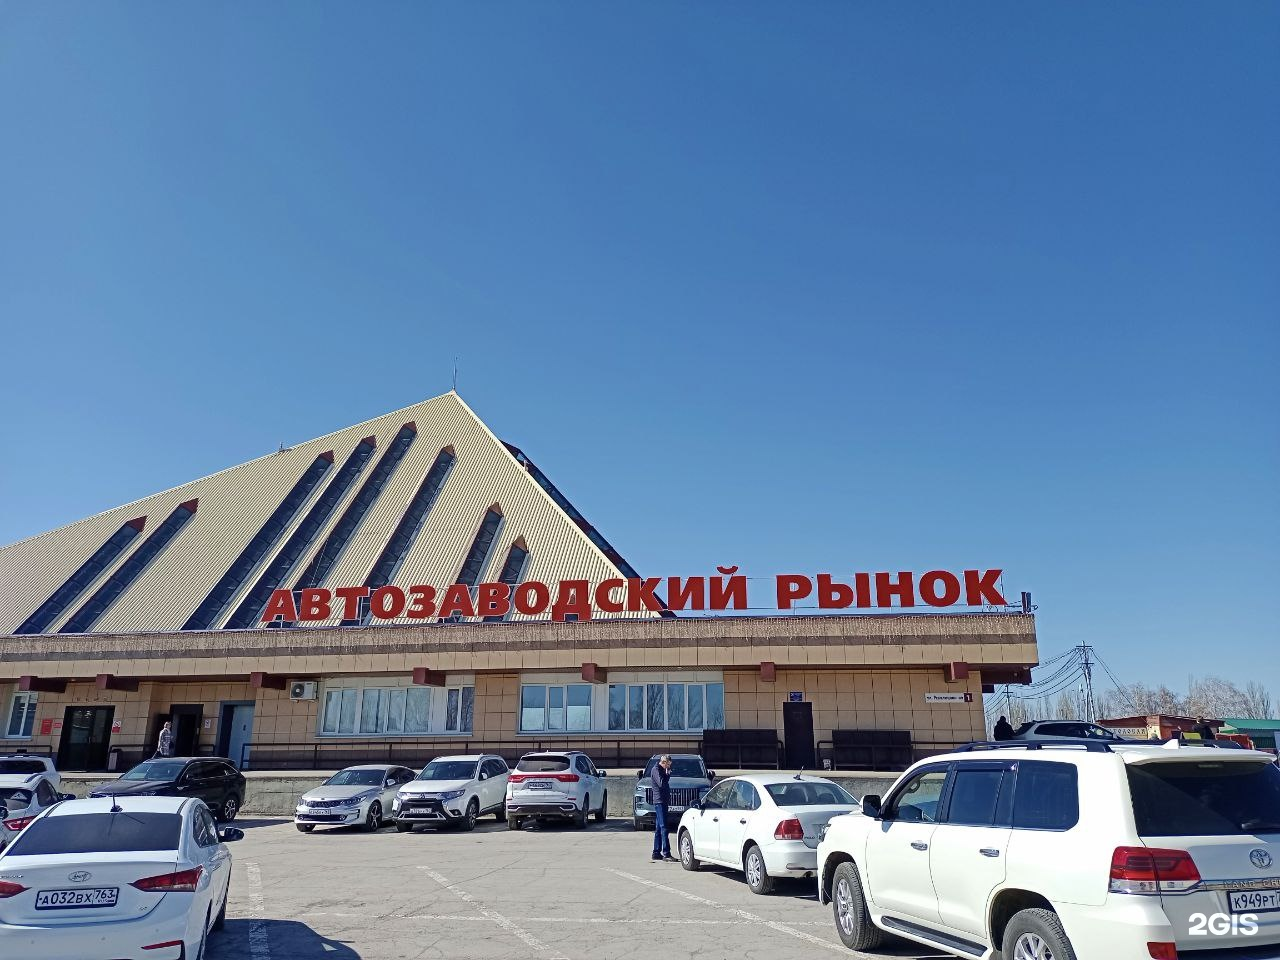
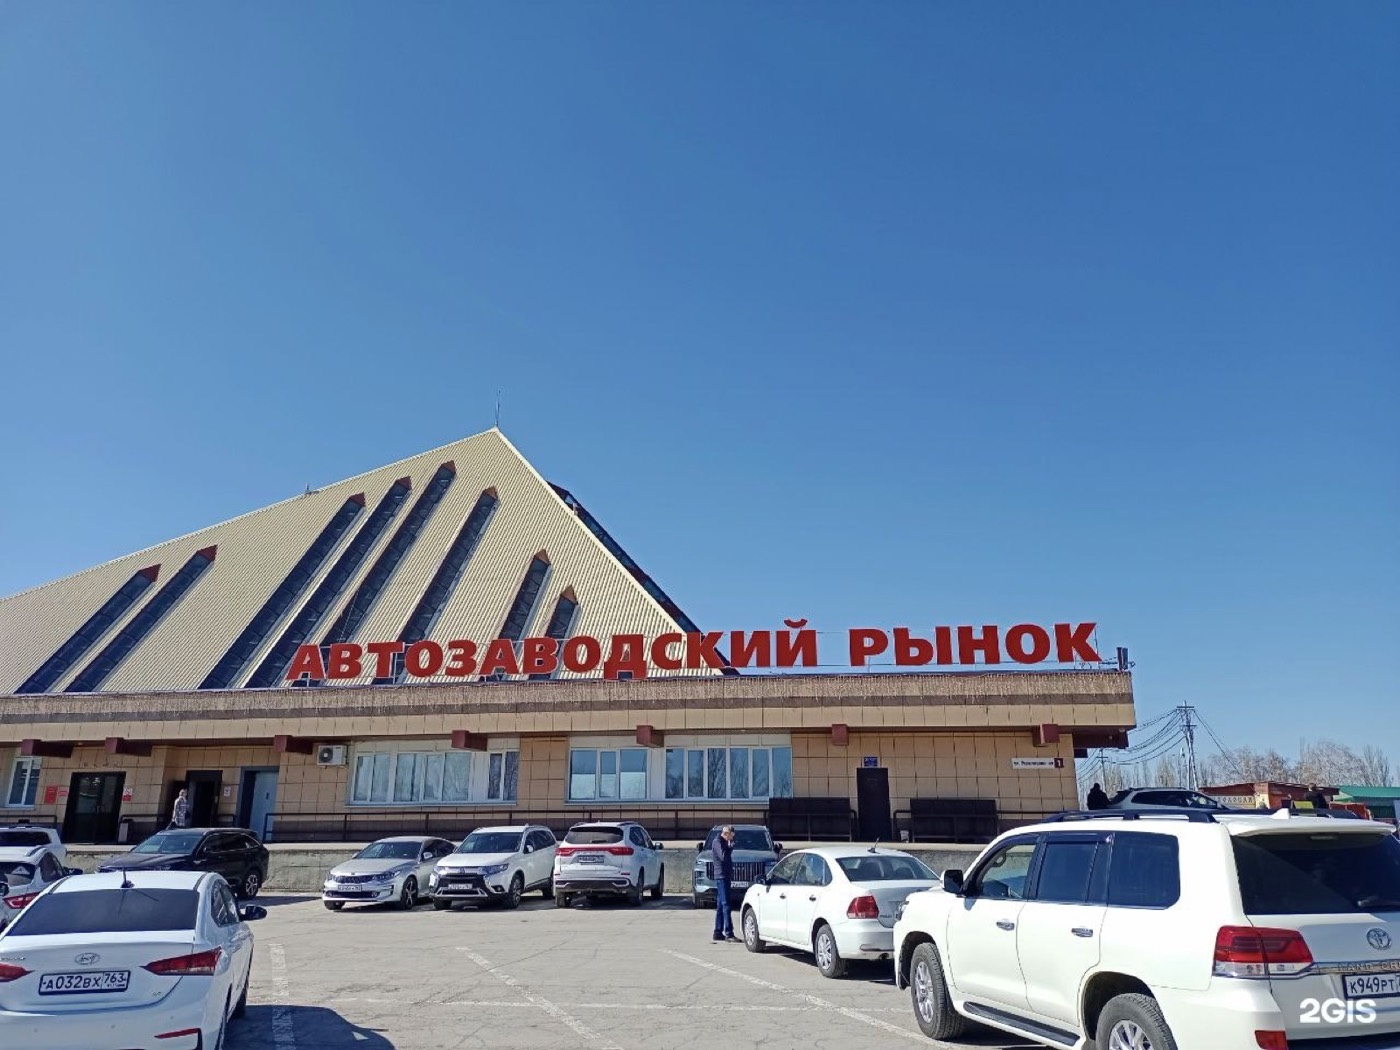
Unify radii, soft dividers, mobile slider/carousel fixes, perf
- All buttons, inputs and button-like tiles use 12px radius; form card 16px;
  contact tiles get a visible hover state
- Hero stat dividers and footer divider use translucent white (footer one
  fades out at the edges) instead of flat grey
- Portfolio mobile arrows scroll exactly one card (width + gap), card peek
  reduced to ~24px
- Hero carousel autoscroll keeps its position in a float ref — Safari rounds
  scrollLeft to integers so the fractional increment never accumulated on iOS
- hoverOnlyWhenSupported: hover styles no longer stick after taps on touch
- Mobile fish glow uses half-size blurs (heavy 88px blur caused jank on iOS)
- All photos recompressed to max 1400px/q72: 7.2MB -> 4.2MB page weight

diff --git a/components/Hero.tsx b/components/Hero.tsx
@@ -88,6 +88,7 @@ export default function Hero({ content }: HeroProps) {
   const [isMenuOpen, setIsMenuOpen] = useState(false);
   const [navOpacity, setNavOpacity] = useState(0);
   const dragState = useRef({ startX: 0, scrollLeft: 0 });
+  const autoScrollPos = useRef(0);
   const carouselImages = useMemo(() => [...hero.images, ...hero.images, ...hero.images], [hero.images]);
 
   useEffect(() => {
@@ -99,11 +100,19 @@ export default function Hero({ content }: HeroProps) {
     let frameId = 0;
     const tick = () => {
       if (!isPaused && !isDragging) {
-        carousel.scrollLeft += 0.55;
-
-        if (carousel.scrollLeft >= carousel.scrollWidth / 3) {
-          carousel.scrollLeft = 0;
+        // Safari rounds scrollLeft to integers, so a fractional increment on
+        // the live value never accumulates — keep the position in a float ref.
+        if (Math.abs(carousel.scrollLeft - autoScrollPos.current) > 2) {
+          autoScrollPos.current = carousel.scrollLeft;
         }
+
+        autoScrollPos.current += 0.55;
+
+        if (autoScrollPos.current >= carousel.scrollWidth / 3) {
+          autoScrollPos.current = 0;
+        }
+
+        carousel.scrollLeft = autoScrollPos.current;
       }
 
       frameId = requestAnimationFrame(tick);
@@ -211,14 +220,14 @@ export default function Hero({ content }: HeroProps) {
               ))}
             </div>
             <a
-              className="rounded bg-brand-accent px-6 py-[10px] text-[14px] font-bold text-white transition hover:bg-red-700"
+              className="rounded-xl bg-brand-accent px-6 py-[10px] text-[14px] font-bold text-white transition hover:bg-red-700"
               href={nav.cta.href}
             >
               {nav.cta.label}
             </a>
           </div>
           <a
-            className="ml-auto mr-3 rounded bg-brand-accent px-5 py-[10px] text-[14px] font-bold text-white transition hover:bg-red-700 lg:hidden"
+            className="ml-auto mr-3 rounded-xl bg-brand-accent px-5 py-[10px] text-[14px] font-bold text-white transition hover:bg-red-700 lg:hidden"
             href={nav.cta.href}
           >
             {nav.cta.label}
@@ -226,7 +235,7 @@ export default function Hero({ content }: HeroProps) {
           <button
             aria-expanded={isMenuOpen}
             aria-label={isMenuOpen ? nav.menuCloseLabel : nav.menuOpenLabel}
-            className="relative z-[9100] flex h-11 w-11 items-center justify-center rounded border border-[#333333] text-[#dddddd] transition hover:border-[#555555] lg:hidden"
+            className="relative z-[9100] flex h-11 w-11 items-center justify-center rounded-xl border border-[#333333] text-[#dddddd] transition hover:border-[#555555] lg:hidden"
             onClick={() => setIsMenuOpen((value) => !value)}
             type="button"
           >
@@ -292,13 +301,13 @@ export default function Hero({ content }: HeroProps) {
 
           <div className="mt-6 flex flex-col gap-4 sm:flex-row sm:gap-5">
             <a
-              className="rounded bg-brand-accent px-9 py-4 text-center text-[16px] font-bold text-white shadow-[0_0_22px_rgba(204,26,44,0.42)] transition hover:bg-red-700"
+              className="rounded-xl bg-brand-accent px-9 py-4 text-center text-[16px] font-bold text-white shadow-[0_0_22px_rgba(204,26,44,0.42)] transition hover:bg-red-700"
               href={hero.primaryCta.href}
             >
               {ctaText}
             </a>
             <a
-              className="rounded border border-[#444444] px-9 py-4 text-center text-[16px] font-semibold text-white transition hover:border-white"
+              className="rounded-xl border border-[#444444] px-9 py-4 text-center text-[16px] font-semibold text-white transition hover:border-white"
               href={hero.secondaryCta.href}
             >
               {hero.secondaryCta.label}
@@ -353,7 +362,7 @@ export default function Hero({ content }: HeroProps) {
 
       <dl className="relative z-10 mx-auto grid max-w-[1200px] grid-cols-2 gap-y-8 px-5 pb-12 pt-3 sm:px-6 lg:grid-cols-4 lg:px-0 lg:pb-16">
         {stats.map((stat) => (
-          <div className="border-[#333333] text-center lg:border-l lg:first:border-l-0" key={stat.label}>
+          <div className="border-white/10 text-center lg:border-l lg:first:border-l-0" key={stat.label}>
             <dt className="font-heading text-[36px] leading-none text-brand-accent sm:text-[48px]">{stat.value}</dt>
             <dd className="mt-3 text-[15px] font-medium text-[#999999]">{stat.label}</dd>
           </div>

diff --git a/components/Contacts.tsx b/components/Contacts.tsx
@@ -67,14 +67,14 @@ export default function Contacts({ contacts }: ContactsProps) {
             <h2 className="font-heading text-[26px]">{contacts.title}</h2>
 
             <div className="mt-5 grid gap-2">
-              <a className="flex items-center gap-4 rounded-lg border border-[#242421] bg-[#181816] py-3.5 pl-5 pr-4" href={contacts.phone.href}>
+              <a className="flex items-center gap-4 rounded-xl border border-[#242421] bg-[#181816] py-3.5 pl-5 pr-4 transition hover:border-[#3c3c38] hover:bg-[#1f1f1d]" href={contacts.phone.href}>
                 <Icon path={iconPaths.phone} />
                 <span>
                   <span className="block text-[11px] font-bold text-[#777777]">{contacts.phone.label}</span>
                   <span className="mt-1 block text-[19px] font-extrabold">{contacts.phone.value}</span>
                 </span>
               </a>
-              <a className="flex items-center gap-4 rounded-lg border border-[#242421] bg-[#181816] py-3.5 pl-5 pr-4" href={contacts.email.href}>
+              <a className="flex items-center gap-4 rounded-xl border border-[#242421] bg-[#181816] py-3.5 pl-5 pr-4 transition hover:border-[#3c3c38] hover:bg-[#1f1f1d]" href={contacts.email.href}>
                 <Icon path={iconPaths.mail} />
                 <span>
                   <span className="block text-[11px] font-bold text-[#777777]">{contacts.email.label}</span>
@@ -105,7 +105,7 @@ export default function Contacts({ contacts }: ContactsProps) {
             <div className="mt-6 flex flex-wrap gap-2.5">
               {contacts.mapButtons.map((button) => (
                 <a
-                  className="inline-flex items-center gap-2.5 rounded-lg border border-[#2e2e2b] bg-[#1d1d1b] px-4 py-2.5 text-[13px] font-bold text-white transition hover:border-[#4a4a46] hover:bg-[#242422]"
+                  className="inline-flex items-center gap-2.5 rounded-xl border border-[#2e2e2b] bg-[#1d1d1b] px-4 py-2.5 text-[13px] font-bold text-white transition hover:border-[#4a4a46] hover:bg-[#242422]"
                   href={button.href}
                   key={button.label}
                   rel="noreferrer"

diff --git a/components/FinalForm.tsx b/components/FinalForm.tsx
@@ -36,19 +36,19 @@ export default function FinalForm({ form }: FinalFormProps) {
           </ul>
         </div>
 
-        <form className="rounded-lg bg-[#f8f8f8] p-6 sm:p-8">
+        <form className="rounded-2xl bg-[#f8f8f8] p-6 sm:p-8">
           <div className="grid gap-5">
             {form.fields.map((field) => (
               <label className="grid gap-1.5 text-[13px] text-[#666666]" key={field.label}>
                 <span>{field.label}</span>
                 {field.type === "textarea" ? (
                   <textarea
-                    className="min-h-[118px] resize-y rounded bg-[#e8e8e8] px-4 py-3 text-[15px] text-brand-ink outline-none transition placeholder:text-[#999999] focus:ring-2 focus:ring-brand-accent/35"
+                    className="min-h-[118px] resize-y rounded-xl bg-[#e8e8e8] px-4 py-3 text-[15px] text-brand-ink outline-none transition placeholder:text-[#999999] focus:ring-2 focus:ring-brand-accent/35"
                     placeholder={field.placeholder}
                   />
                 ) : (
                   <input
-                    className="h-11 rounded bg-[#e8e8e8] px-4 text-[15px] text-brand-ink outline-none transition placeholder:text-[#999999] focus:ring-2 focus:ring-brand-accent/35"
+                    className="h-11 rounded-xl bg-[#e8e8e8] px-4 text-[15px] text-brand-ink outline-none transition placeholder:text-[#999999] focus:ring-2 focus:ring-brand-accent/35"
                     placeholder={field.placeholder}
                     type={field.type}
                   />
@@ -58,7 +58,7 @@ export default function FinalForm({ form }: FinalFormProps) {
           </div>
 
           <button
-            className="mt-6 h-12 w-full rounded bg-brand-accent px-5 text-[15px] font-bold text-white transition hover:bg-red-700"
+            className="mt-6 h-12 w-full rounded-xl bg-brand-accent px-5 text-[15px] font-bold text-white transition hover:bg-red-700"
             type="button"
           >
             {form.submitText}

diff --git a/components/Portfolio.tsx b/components/Portfolio.tsx
@@ -32,12 +32,16 @@ export default function Portfolio({ portfolio }: PortfolioProps) {
 
   const scrollMobile = (direction: "left" | "right") => {
     const scroller = mobileScrollerRef.current;
-    if (!scroller) {
+    const card = scroller?.firstElementChild;
+    if (!scroller || !card) {
       return;
     }
 
+    const gap = parseFloat(getComputedStyle(scroller).columnGap) || 16;
+    const step = card.getBoundingClientRect().width + gap;
+
     scroller.scrollBy({
-      left: scroller.clientWidth * 0.9 * (direction === "left" ? -1 : 1),
+      left: step * (direction === "left" ? -1 : 1),
       behavior: "smooth"
     });
   };
@@ -63,7 +67,7 @@ export default function Portfolio({ portfolio }: PortfolioProps) {
         >
           {slides.map((slide) => (
             <div
-              className="relative h-[62vw] max-h-[360px] min-h-[250px] min-w-[calc(100vw-84px)] snap-start overflow-hidden rounded-[18px] bg-zinc-100 sm:h-[420px] sm:min-w-[calc(100vw-104px)]"
+              className="relative h-[62vw] max-h-[360px] min-h-[250px] min-w-[calc(100vw-64px)] snap-start overflow-hidden rounded-[18px] bg-zinc-100 sm:h-[420px] sm:min-w-[calc(100vw-88px)]"
               key={slide.src}
             >
               <Image
@@ -139,7 +143,7 @@ export default function Portfolio({ portfolio }: PortfolioProps) {
           {slides.map((image, index) => (
             <button
               aria-label={image.alt}
-              className={`relative h-[50px] w-[75px] shrink-0 overflow-hidden rounded border-2 transition ${
+              className={`relative h-[50px] w-[75px] shrink-0 overflow-hidden rounded-md border-2 transition ${
                 index === activeIndex ? "border-brand-accent" : "border-transparent opacity-70 hover:opacity-100"
               }`}
               key={`${image.src}-${index}`}

diff --git a/components/SectionWatermark.tsx b/components/SectionWatermark.tsx
@@ -12,14 +12,14 @@ export default function SectionWatermark({ variant = "grey" }: SectionWatermarkP
     return (
       <div aria-hidden className={boxClasses}>
         <Image
-          className="absolute inset-[-5.5rem] h-[calc(100%+11rem)] w-[calc(100%+11rem)] object-contain opacity-75 blur-[88px] saturate-150"
+          className="absolute inset-[-5.5rem] h-[calc(100%+11rem)] w-[calc(100%+11rem)] object-contain opacity-75 blur-[44px] saturate-150 lg:blur-[88px]"
           src="/logo-mark.svg"
           alt=""
           fill
           priority
           sizes="540px"
         />
-        <div className="absolute inset-[-8rem] bg-[radial-gradient(circle_at_center,rgba(204,26,44,0.2),rgba(22,140,205,0.18)_58%,rgba(15,15,13,0)_76%)] blur-[72px]" />
+        <div className="absolute inset-[-8rem] bg-[radial-gradient(circle_at_center,rgba(204,26,44,0.2),rgba(22,140,205,0.18)_58%,rgba(15,15,13,0)_76%)] blur-[36px] lg:blur-[72px]" />
         <Image
           className="absolute inset-0 h-full w-full object-contain opacity-[0.72] brightness-0"
           src="/logo-mark.svg"

diff --git a/components/CTASection.tsx b/components/CTASection.tsx
@@ -30,7 +30,7 @@ export default function CTASection({ cta }: CTASectionProps) {
         <p className="relative z-10 mx-auto mt-5 max-w-[600px] text-sm leading-[1.5] text-[#999999] sm:text-base">{cta.subtitle}</p>
 
         <a
-          className="relative z-10 mt-7 inline-flex rounded bg-brand-accent px-9 py-4 text-[16px] font-bold text-white transition hover:bg-red-700"
+          className="relative z-10 mt-7 inline-flex rounded-xl bg-brand-accent px-9 py-4 text-[16px] font-bold text-white transition hover:bg-red-700"
           href={cta.button.href}
         >
           {cta.button.label}

diff --git a/components/Footer.tsx b/components/Footer.tsx
@@ -95,7 +95,7 @@ export default function Footer({ footer }: FooterProps) {
           </div>
         </div>
 
-        <div className="mt-12 h-px bg-[#333333]" />
+        <div className="mt-12 h-px bg-gradient-to-r from-transparent via-white/15 to-transparent" />
 
         <div className="mt-6 flex flex-col gap-4 text-[12px] text-[#666666] xl:flex-row xl:items-center xl:justify-between">
           <p className="text-[11px] xl:whitespace-nowrap xl:text-[12px]">{footer.copyright}</p>

diff --git a/tailwind.config.ts b/tailwind.config.ts
@@ -1,6 +1,9 @@
 import type { Config } from "tailwindcss";
 
 const config: Config = {
+  future: {
+    hoverOnlyWhenSupported: true
+  },
   content: [
     "./app/**/*.{js,ts,jsx,tsx,mdx}",
     "./components/**/*.{js,ts,jsx,tsx,mdx}"
